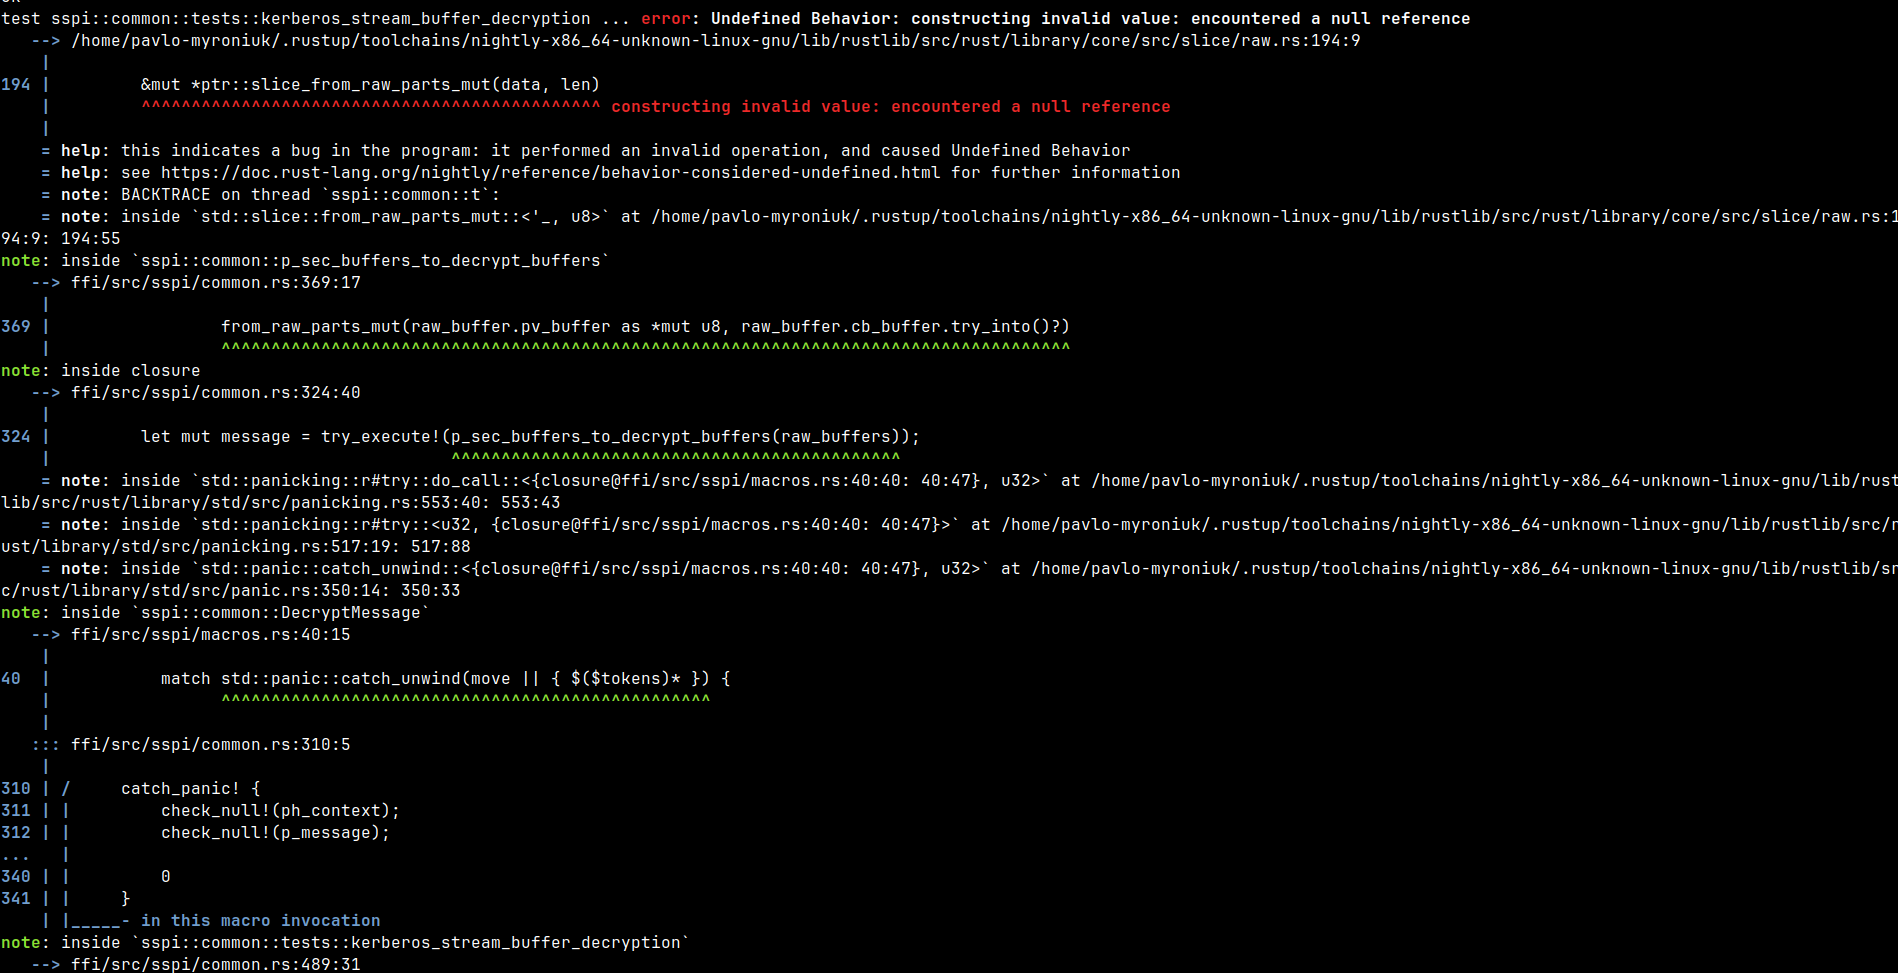
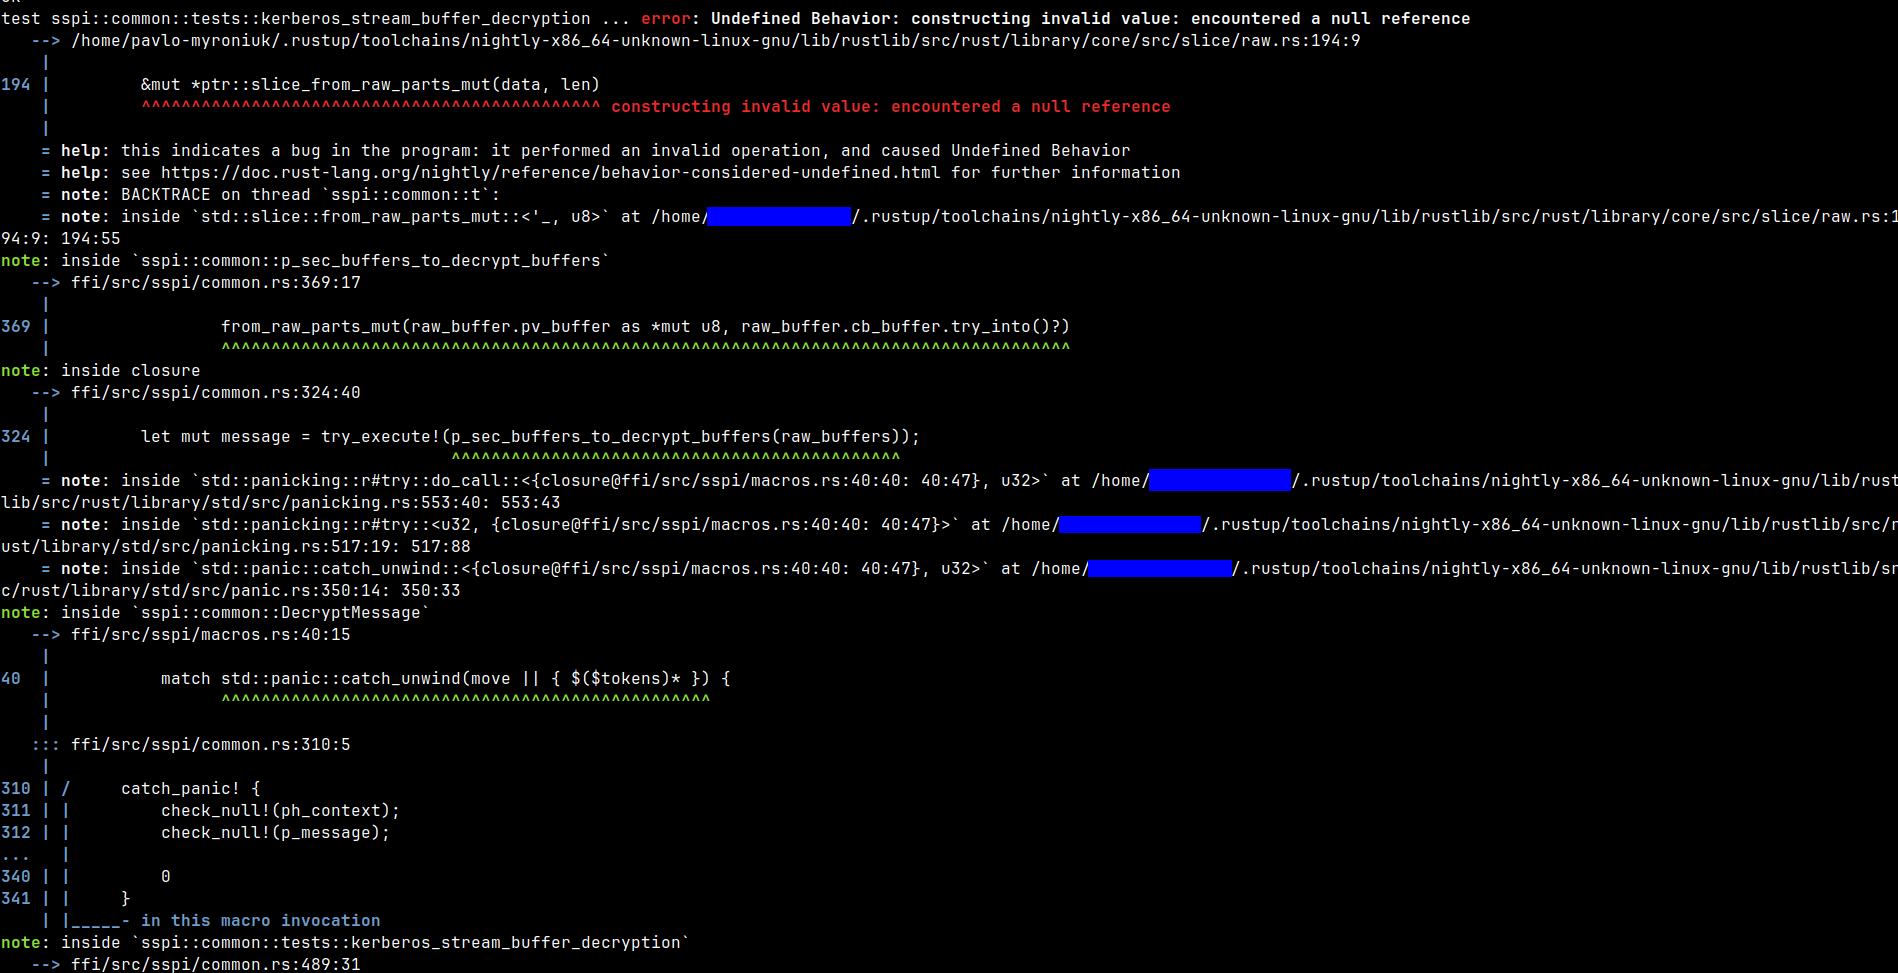
feat(miri): add rhumbnail. improve existing screenshots;

Changed region(s): [[0.5595, 0.4625, 0.6839, 0.6166], [0.373, 0.2158, 0.4663, 0.2467]]

diff --git a/content/posts/miri/index.md b/content/posts/miri/index.md
@@ -9,6 +9,7 @@ tags = ["rust", "tool"]
 [extra]
 keywords = "Rust, Miri"
 toc = true
+thumbnail = "miri-thumbnail.png"
 +++
 
 For ones who don't know ([quote src](https://github.com/rust-lang/miri)):
@@ -36,7 +37,7 @@ rustup +nightly component add miri
 ```
 
 Why *nightly*? The Miri can be run only with the nightly Rust. So, you should be able to compile your project with nightly Rust.
-In short, Miri can run project binaries, tests, examples, and so on.
+Miri can run project binaries, tests, examples, and so on.
 
 ```bash
 cargo +nightly miri run
@@ -90,7 +91,7 @@ Miri has found more bugs than I expected. The UB was in such places I can't even
 
 # Limitations
 
-* **Miri can execute only Rust code.** It means you don't have access to all functions from `libc` or any other foreign functions (system API, FFI). Miri can open the file or read the environment variable. But you can not make a TCP connection, for example. It's another reason to write [low-coupled code with high cohesion](https://stackoverflow.com/q/14000762/9123725).
+* **Miri can execute only Rust code.** It means you don't have access to all functions from `libc` or any other foreign functions (system API, FFI). Miri can open the file or read the environment variable. But you can not establish a TCP connection, for example. It's another reason to write [low-coupled code with high cohesion](https://stackoverflow.com/q/14000762/9123725).
 * **Miri can not ensure that your program is sound.** From Miri [README.md](https://github.com/rust-lang/miri?tab=readme-ov-file#miri):
   >  [Soundness](https://rust-lang.github.io/unsafe-code-guidelines/glossary.html#soundness-of-code--of-a-library) is the property of never causing undefined behavior when invoked from arbitrary safe code, even in combination with other sound code. In contrast, Miri can just tell you if *a particular way of interacting with your code* (e.g., a test suite) causes any undefined behavior. It is up to you to ensure sufficient coverage.
 * **Miri can be slow on big/heavy tests.** It's because Miri is *an interpreter* for Rust's mid-level intermediate representation. It means that the code is not compiled to ASM and is not executed directly on the CPU.
